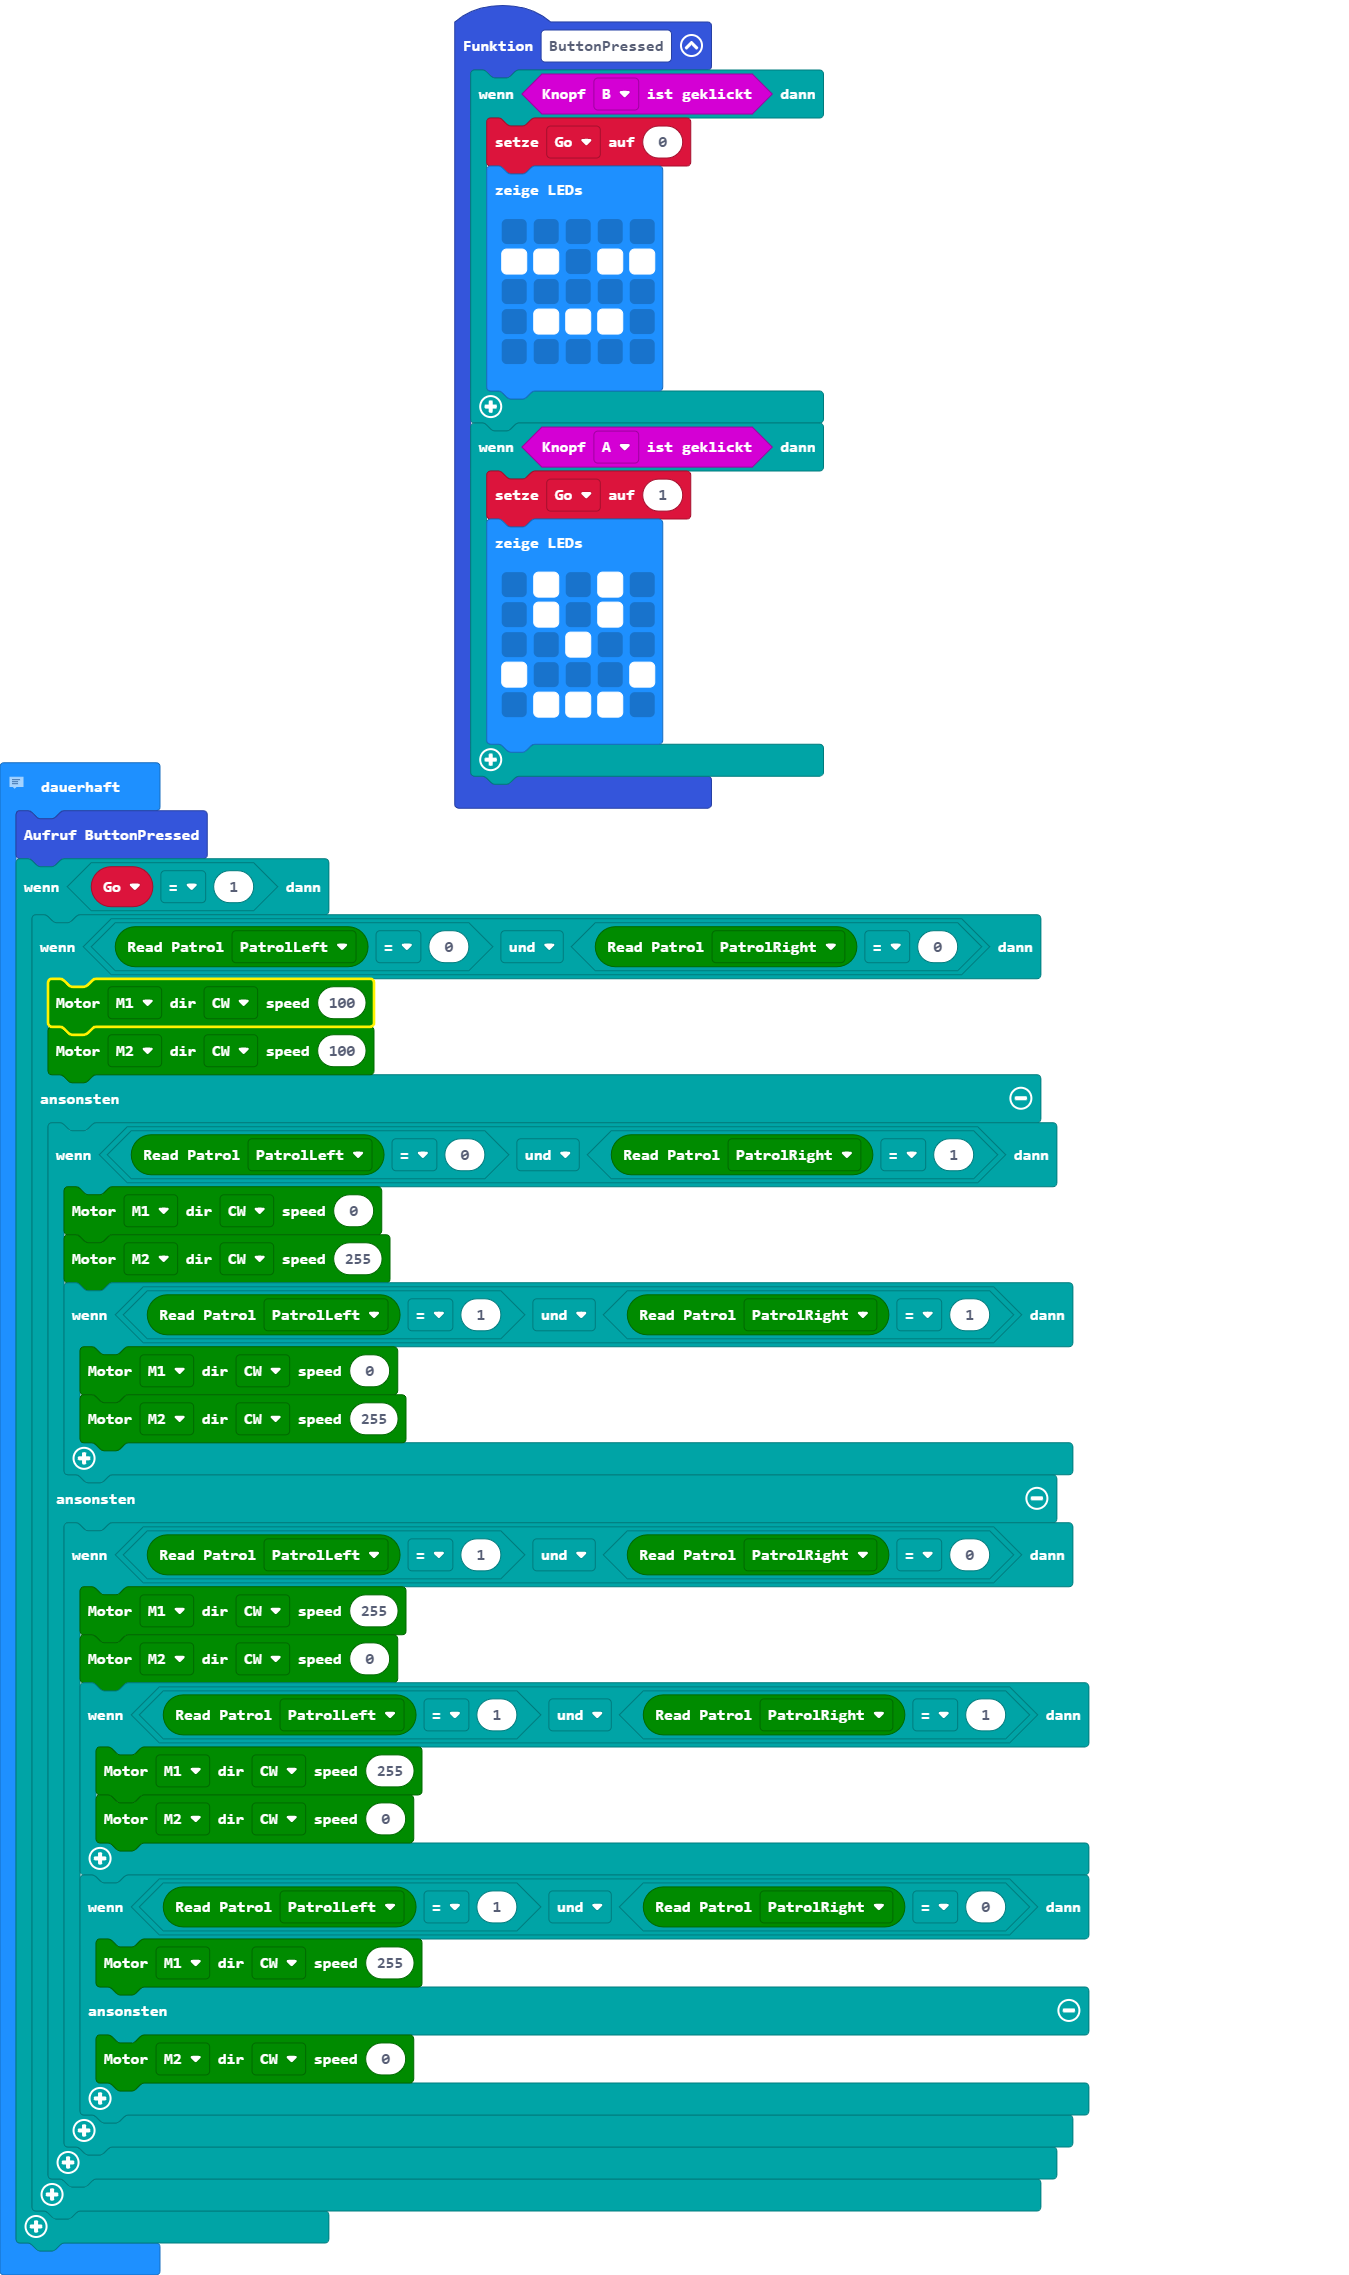
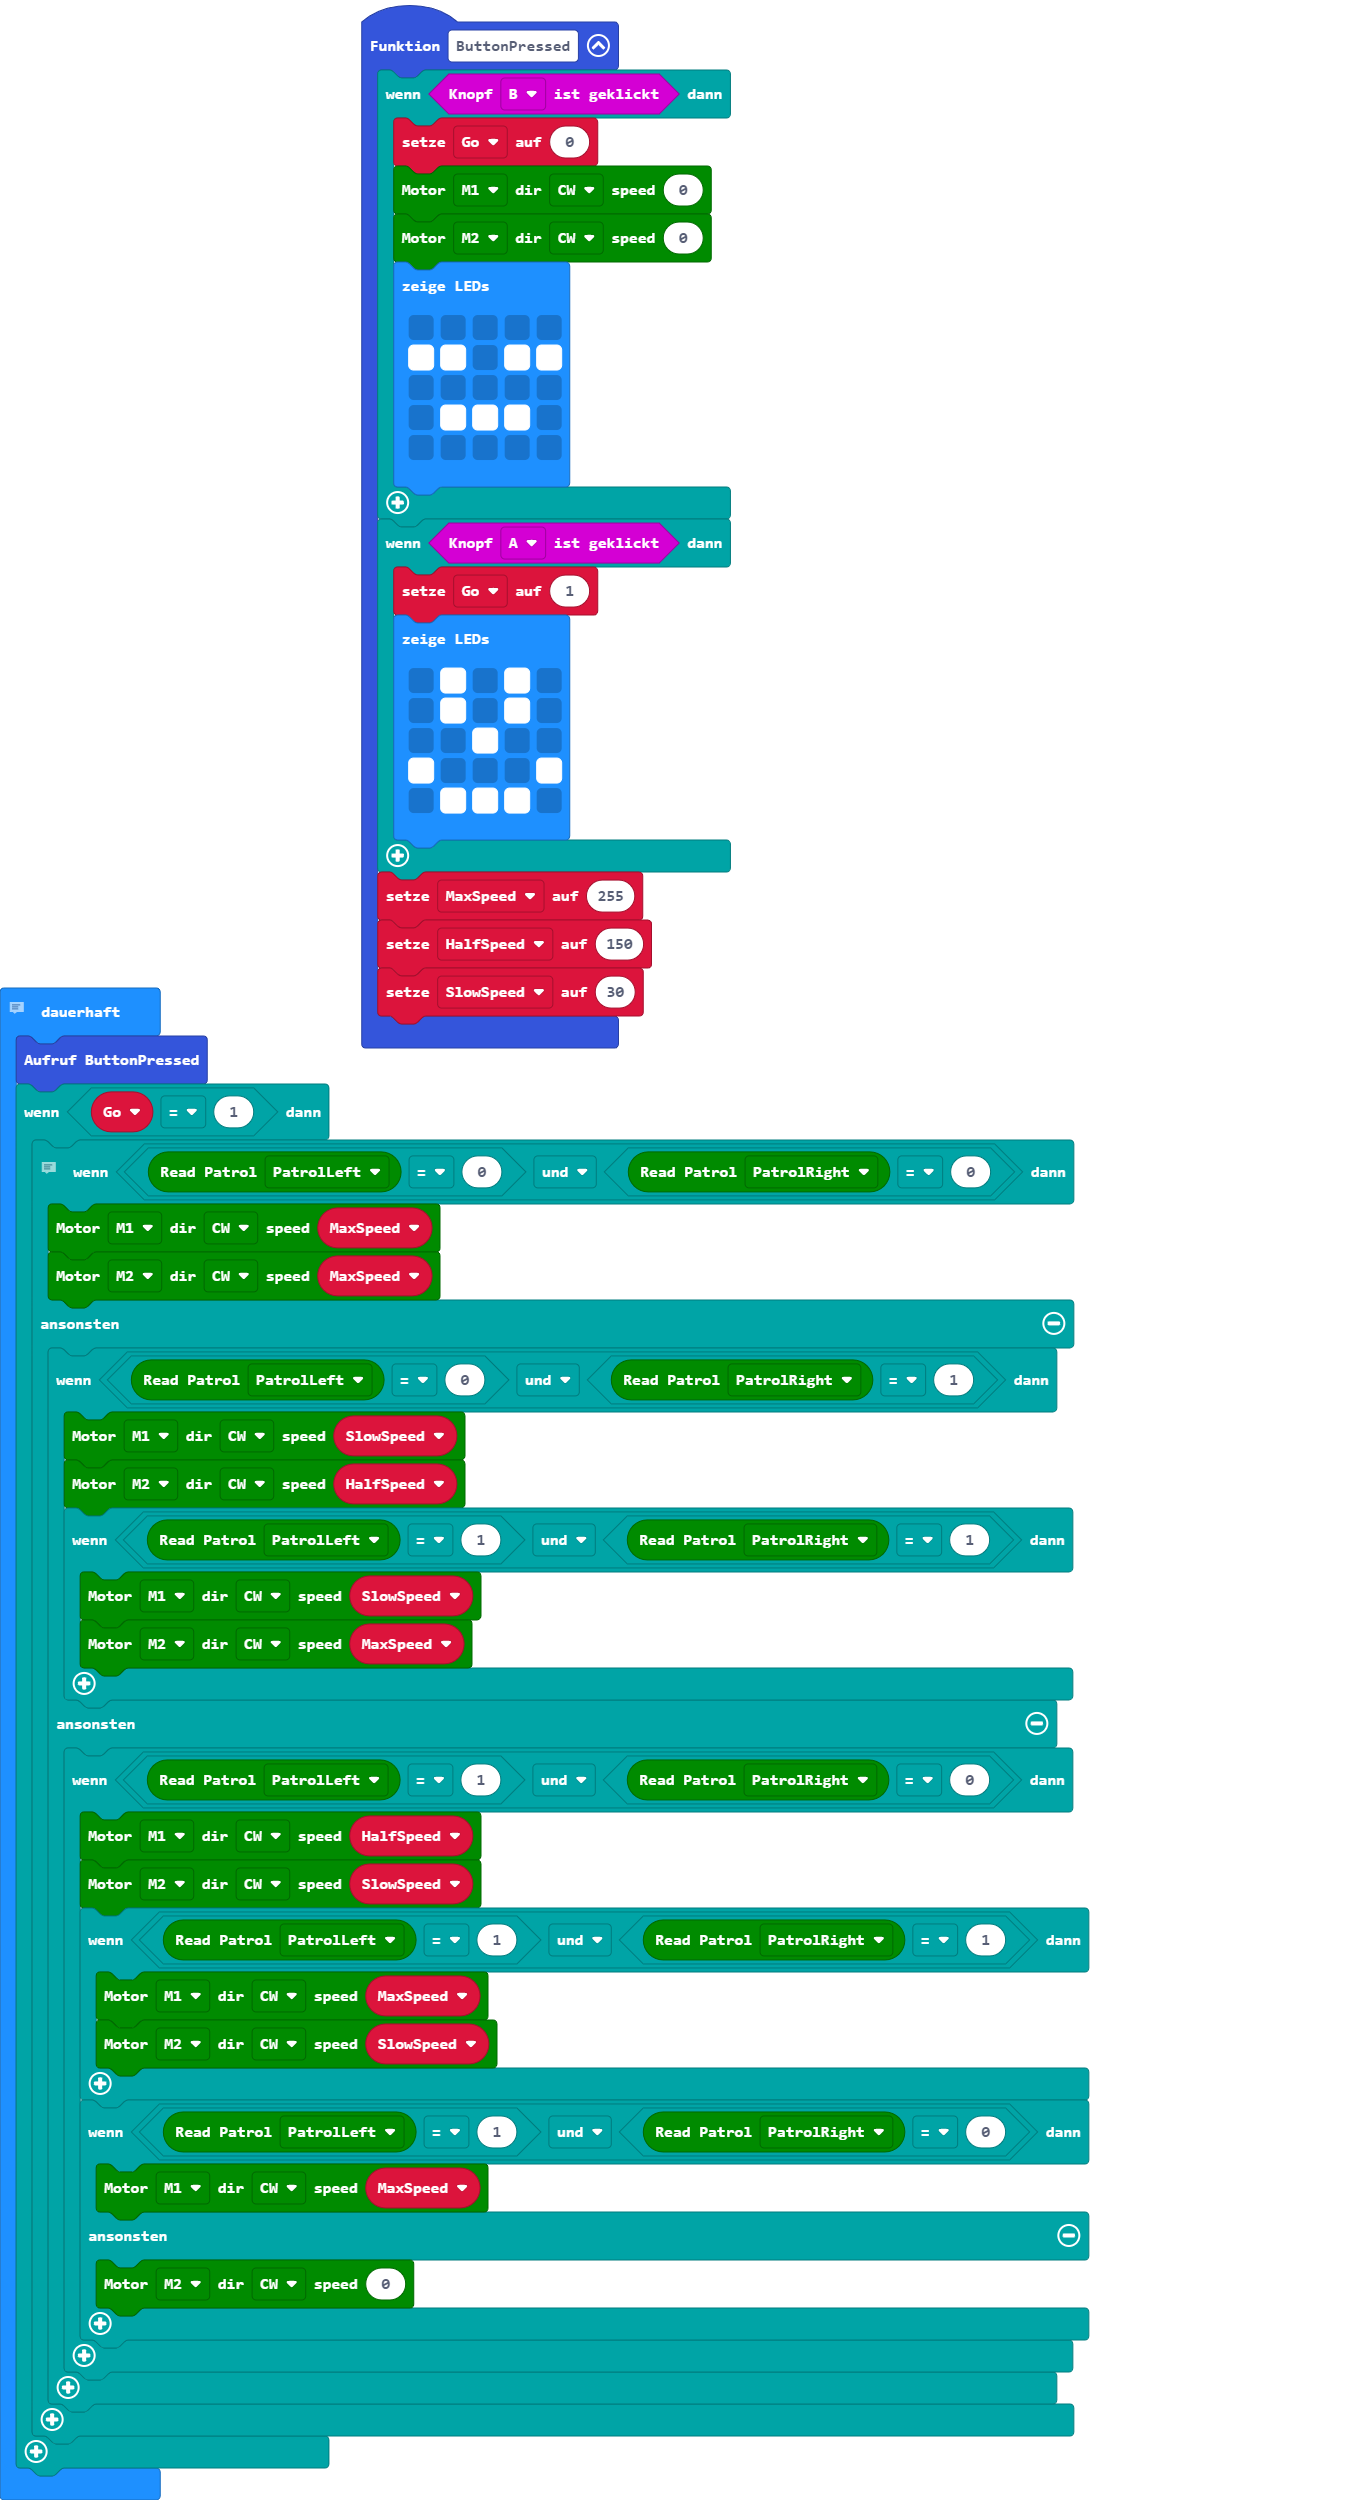
Aktualisiere pxt.json, main.blocks, main.ts

diff --git a/main.ts b/main.ts
@@ -1,7 +1,12 @@
 let Go = 0
+let MaxSpeed = 0
+let HalfSpeed = 0
+let SlowSpeed = 0
 function ButtonPressed () {
     if (input.buttonIsPressed(Button.B)) {
         Go = 0
+        maqueen.MotorRun(maqueen.aMotors.M1, maqueen.Dir.CW, 0)
+        maqueen.MotorRun(maqueen.aMotors.M2, maqueen.Dir.CW, 0)
         basic.showLeds(`
             . . . . .
             # # . # #
@@ -20,33 +25,37 @@ function ButtonPressed () {
             . # # # .
             `)
     }
+    MaxSpeed = 255
+    HalfSpeed = 150
+    SlowSpeed = 30
 }
 // M1 Linkes Rad
 // M2 Rechts
 basic.forever(function () {
     ButtonPressed()
     if (Go == 1) {
+        // Beide weiss
         if (maqueen.readPatrol(maqueen.Patrol.PatrolLeft) == 0 && maqueen.readPatrol(maqueen.Patrol.PatrolRight) == 0) {
-            maqueen.MotorRun(maqueen.aMotors.M1, maqueen.Dir.CW, 100)
-            maqueen.MotorRun(maqueen.aMotors.M2, maqueen.Dir.CW, 100)
+            maqueen.MotorRun(maqueen.aMotors.M1, maqueen.Dir.CW, MaxSpeed)
+            maqueen.MotorRun(maqueen.aMotors.M2, maqueen.Dir.CW, MaxSpeed)
         } else {
             if (maqueen.readPatrol(maqueen.Patrol.PatrolLeft) == 0 && maqueen.readPatrol(maqueen.Patrol.PatrolRight) == 1) {
-                maqueen.MotorRun(maqueen.aMotors.M1, maqueen.Dir.CW, 0)
-                maqueen.MotorRun(maqueen.aMotors.M2, maqueen.Dir.CW, 255)
+                maqueen.MotorRun(maqueen.aMotors.M1, maqueen.Dir.CW, SlowSpeed)
+                maqueen.MotorRun(maqueen.aMotors.M2, maqueen.Dir.CW, HalfSpeed)
                 if (maqueen.readPatrol(maqueen.Patrol.PatrolLeft) == 1 && maqueen.readPatrol(maqueen.Patrol.PatrolRight) == 1) {
-                    maqueen.MotorRun(maqueen.aMotors.M1, maqueen.Dir.CW, 0)
-                    maqueen.MotorRun(maqueen.aMotors.M2, maqueen.Dir.CW, 255)
+                    maqueen.MotorRun(maqueen.aMotors.M1, maqueen.Dir.CW, SlowSpeed)
+                    maqueen.MotorRun(maqueen.aMotors.M2, maqueen.Dir.CW, MaxSpeed)
                 }
             } else {
                 if (maqueen.readPatrol(maqueen.Patrol.PatrolLeft) == 1 && maqueen.readPatrol(maqueen.Patrol.PatrolRight) == 0) {
-                    maqueen.MotorRun(maqueen.aMotors.M1, maqueen.Dir.CW, 255)
-                    maqueen.MotorRun(maqueen.aMotors.M2, maqueen.Dir.CW, 0)
+                    maqueen.MotorRun(maqueen.aMotors.M1, maqueen.Dir.CW, HalfSpeed)
+                    maqueen.MotorRun(maqueen.aMotors.M2, maqueen.Dir.CW, SlowSpeed)
                     if (maqueen.readPatrol(maqueen.Patrol.PatrolLeft) == 1 && maqueen.readPatrol(maqueen.Patrol.PatrolRight) == 1) {
-                        maqueen.MotorRun(maqueen.aMotors.M1, maqueen.Dir.CW, 255)
-                        maqueen.MotorRun(maqueen.aMotors.M2, maqueen.Dir.CW, 0)
+                        maqueen.MotorRun(maqueen.aMotors.M1, maqueen.Dir.CW, MaxSpeed)
+                        maqueen.MotorRun(maqueen.aMotors.M2, maqueen.Dir.CW, SlowSpeed)
                     }
                     if (maqueen.readPatrol(maqueen.Patrol.PatrolLeft) == 1 && maqueen.readPatrol(maqueen.Patrol.PatrolRight) == 0) {
-                        maqueen.MotorRun(maqueen.aMotors.M1, maqueen.Dir.CW, 255)
+                        maqueen.MotorRun(maqueen.aMotors.M1, maqueen.Dir.CW, MaxSpeed)
                     } else {
                         maqueen.MotorRun(maqueen.aMotors.M2, maqueen.Dir.CW, 0)
                     }
